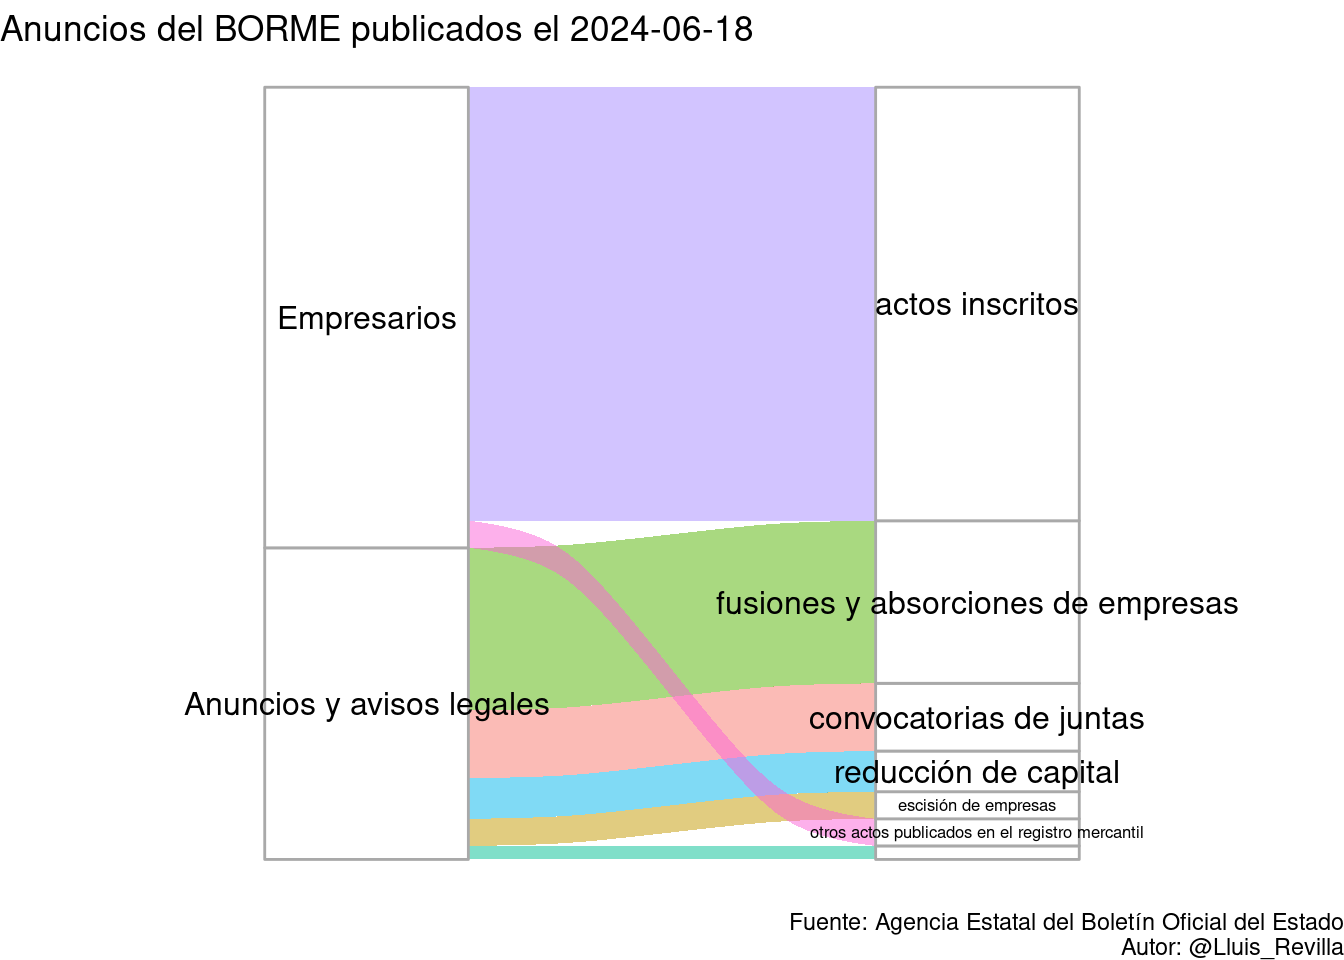
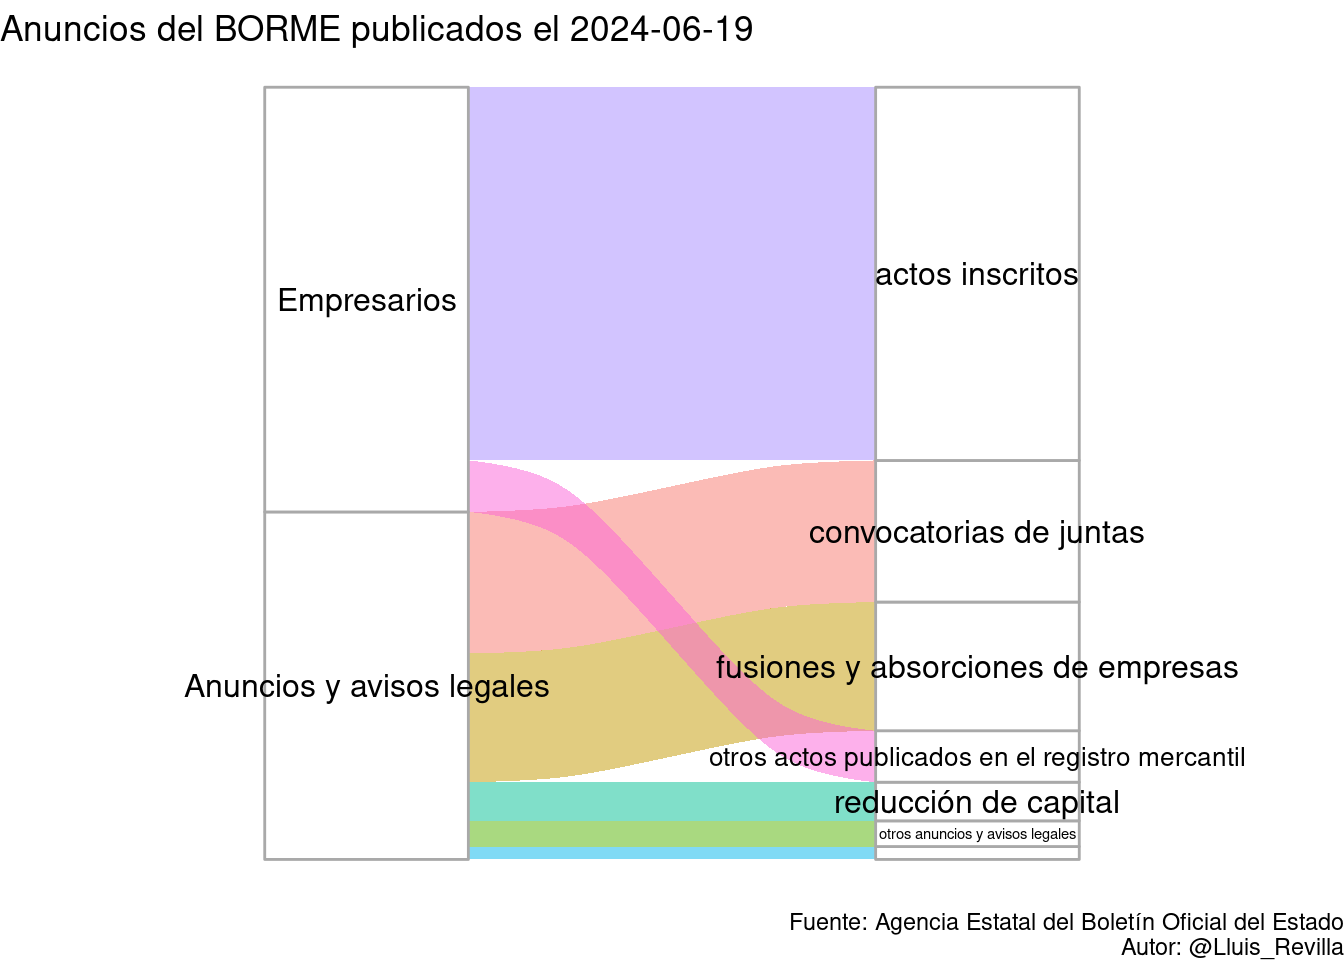
Update BORME

Changed region(s): [[0.125, 0.4688, 0.9375, 0.9062], [0.6562, 0.2812, 0.8125, 0.3438], [0.1875, 0.2812, 0.3438, 0.3438]]

diff --git a/docs/last_BORME.html b/docs/last_BORME.html
@@ -379,14 +379,14 @@ $(document).ready(function () {
 
 <div id="resumen-gráfico" class="section level1">
 <h1>Resumen gráfico</h1>
-<p>Esta página web contiene el último sumario del BORME publicado el 2024-06-18 con 57 publicaciones.</p>
+<p>Esta página web contiene el último sumario del BORME publicado el 2024-06-19 con 60 publicaciones.</p>
 <p><img src="last_BORME_files/figure-html/graphics-1.png" width="672" /></p>
 </div>
 <div id="tabla-de-publicaciones" class="section level1">
 <h1>Tabla de publicaciones</h1>
 <p>Aquí está la tabla completa con enlaces a las publicaciones:</p>
-<div class="datatables html-widget html-fill-item-overflow-hidden html-fill-item" id="htmlwidget-f313b6f8ead179875853" style="width:100%;height:auto;"></div>
-<script type="application/json" data-for="htmlwidget-f313b6f8ead179875853">{"x":{"filter":"top","vertical":false,"filterHTML":"<tr>\n  <td><\/td>\n  <td data-type=\"character\" style=\"vertical-align: top;\">\n    <div class=\"form-group has-feedback\" style=\"margin-bottom: auto;\">\n      <input type=\"search\" placeholder=\"All\" class=\"form-control\" style=\"width: 100%;\"/>\n      <span class=\"glyphicon glyphicon-remove-circle form-control-feedback\"><\/span>\n    <\/div>\n  <\/td>\n  <td data-type=\"character\" style=\"vertical-align: top;\">\n    <div class=\"form-group has-feedback\" style=\"margin-bottom: auto;\">\n      <input type=\"search\" placeholder=\"All\" class=\"form-control\" style=\"width: 100%;\"/>\n      <span class=\"glyphicon glyphicon-remove-circle form-control-feedback\"><\/span>\n    <\/div>\n  <\/td>\n  <td data-type=\"character\" style=\"vertical-align: top;\">\n    <div class=\"form-group has-feedback\" style=\"margin-bottom: auto;\">\n      <input type=\"search\" placeholder=\"All\" class=\"form-control\" style=\"width: 100%;\" disabled=\"\"/>\n      <span class=\"glyphicon glyphicon-remove-circle form-control-feedback\"><\/span>\n    <\/div>\n  <\/td>\n  <td data-type=\"character\" style=\"vertical-align: top;\">\n    <div class=\"form-group has-feedback\" style=\"margin-bottom: auto;\">\n      <input type=\"search\" placeholder=\"All\" class=\"form-control\" style=\"width: 100%;\"/>\n      <span class=\"glyphicon glyphicon-remove-circle form-control-feedback\"><\/span>\n    <\/div>\n  <\/td>\n<\/tr>","data":[["1","2","3","4","5","6","7","8","9","10","11","12","13","14","15","16","17","18","19","20","21","22","23","24","25","26","27","28","29","30","31","32","33","34","35","36","37","38","39","40","41","42","43","44","45","46","47","48","49","50","51","52","53","54","55","56","57"],["SECCIÓN PRIMERA. Empresarios","SECCIÓN PRIMERA. Empresarios","SECCIÓN PRIMERA. Empresarios","SECCIÓN PRIMERA. Empresarios","SECCIÓN PRIMERA. Empresarios","SECCIÓN PRIMERA. Empresarios","SECCIÓN PRIMERA. Empresarios","SECCIÓN PRIMERA. Empresarios","SECCIÓN PRIMERA. Empresarios","SECCIÓN PRIMERA. Empresarios","SECCIÓN PRIMERA. Empresarios","SECCIÓN PRIMERA. Empresarios","SECCIÓN PRIMERA. Empresarios","SECCIÓN PRIMERA. Empresarios","SECCIÓN PRIMERA. Empresarios","SECCIÓN PRIMERA. Empresarios","SECCIÓN PRIMERA. Empresarios","SECCIÓN PRIMERA. Empresarios","SECCIÓN PRIMERA. Empresarios","SECCIÓN PRIMERA. Empresarios","SECCIÓN PRIMERA. Empresarios","SECCIÓN PRIMERA. Empresarios","SECCIÓN PRIMERA. Empresarios","SECCIÓN PRIMERA. Empresarios","SECCIÓN PRIMERA. Empresarios","SECCIÓN PRIMERA. Empresarios","SECCIÓN PRIMERA. Empresarios","SECCIÓN PRIMERA. Empresarios","SECCIÓN PRIMERA. Empresarios","SECCIÓN PRIMERA. Empresarios","SECCIÓN PRIMERA. Empresarios","SECCIÓN PRIMERA. Empresarios","SECCIÓN PRIMERA. Empresarios","SECCIÓN PRIMERA. Empresarios","SECCIÓN SEGUNDA. Anuncios y avisos legales","SECCIÓN SEGUNDA. Anuncios y avisos legales","SECCIÓN SEGUNDA. Anuncios y avisos legales","SECCIÓN SEGUNDA. Anuncios y avisos legales","SECCIÓN SEGUNDA. Anuncios y avisos legales","SECCIÓN SEGUNDA. Anuncios y avisos legales","SECCIÓN SEGUNDA. Anuncios y avisos legales","SECCIÓN SEGUNDA. Anuncios y avisos legales","SECCIÓN SEGUNDA. Anuncios y avisos legales","SECCIÓN SEGUNDA. Anuncios y avisos legales","SECCIÓN SEGUNDA. Anuncios y avisos legales","SECCIÓN SEGUNDA. Anuncios y avisos legales","SECCIÓN SEGUNDA. Anuncios y avisos legales","SECCIÓN SEGUNDA. Anuncios y avisos legales","SECCIÓN SEGUNDA. Anuncios y avisos legales","SECCIÓN SEGUNDA. Anuncios y avisos legales","SECCIÓN SEGUNDA. Anuncios y avisos legales","SECCIÓN SEGUNDA. Anuncios y avisos legales","SECCIÓN SEGUNDA. Anuncios y avisos legales","SECCIÓN SEGUNDA. Anuncios y avisos legales","SECCIÓN SEGUNDA. Anuncios y avisos legales","SECCIÓN SEGUNDA. Anuncios y avisos legales","SECCIÓN SEGUNDA. Anuncios y avisos legales"],["Actos inscritos","Actos inscritos","Actos inscritos","Actos inscritos","Actos inscritos","Actos inscritos","Actos inscritos","Actos inscritos","Actos inscritos","Actos inscritos","Actos inscritos","Actos inscritos","Actos inscritos","Actos inscritos","Actos inscritos","Actos inscritos","Actos inscritos","Actos inscritos","Actos inscritos","Actos inscritos","Actos inscritos","Actos inscritos","Actos inscritos","Actos inscritos","Actos inscritos","Actos inscritos","Actos inscritos","Actos inscritos","Actos inscritos","Actos inscritos","Actos inscritos","Actos inscritos","Otros actos publicados en el Registro Mercantil","Otros actos publicados en el Registro Mercantil","CONVOCATORIAS DE JUNTAS","CONVOCATORIAS DE JUNTAS","CONVOCATORIAS DE JUNTAS","CONVOCATORIAS DE JUNTAS","CONVOCATORIAS DE JUNTAS","FUSIONES Y ABSORCIONES DE EMPRESAS","FUSIONES Y ABSORCIONES DE EMPRESAS","FUSIONES Y ABSORCIONES DE EMPRESAS","FUSIONES Y ABSORCIONES DE EMPRESAS","FUSIONES Y ABSORCIONES DE EMPRESAS","FUSIONES Y ABSORCIONES DE EMPRESAS","FUSIONES Y ABSORCIONES DE EMPRESAS","FUSIONES Y ABSORCIONES DE EMPRESAS","FUSIONES Y ABSORCIONES DE EMPRESAS","FUSIONES Y ABSORCIONES DE EMPRESAS","FUSIONES Y ABSORCIONES DE EMPRESAS","FUSIONES Y ABSORCIONES DE EMPRESAS","ESCISIÓN DE EMPRESAS","ESCISIÓN DE EMPRESAS","REDUCCIÓN DE CAPITAL","REDUCCIÓN DE CAPITAL","REDUCCIÓN DE CAPITAL","OTROS ANUNCIOS Y AVISOS LEGALES"],[null,null,null,null,null,null,null,null,null,null,null,null,null,null,null,null,null,null,null,null,null,null,null,null,null,null,null,null,null,null,null,null,null,null,null,null,null,null,null,null,null,null,null,null,null,null,null,null,null,null,null,null,null,null,null,null,null],["BORME-A-2024-116-02","BORME-A-2024-116-03","BORME-A-2024-116-04","BORME-A-2024-116-06","BORME-A-2024-116-07","BORME-A-2024-116-08","BORME-A-2024-116-09","BORME-A-2024-116-11","BORME-A-2024-116-12","BORME-A-2024-116-13","BORME-A-2024-116-14","BORME-A-2024-116-15","BORME-A-2024-116-16","BORME-A-2024-116-17","BORME-A-2024-116-18","BORME-A-2024-116-23","BORME-A-2024-116-25","BORME-A-2024-116-29","BORME-A-2024-116-30","BORME-A-2024-116-33","BORME-A-2024-116-35","BORME-A-2024-116-36","BORME-A-2024-116-38","BORME-A-2024-116-40","BORME-A-2024-116-41","BORME-A-2024-116-43","BORME-A-2024-116-45","BORME-A-2024-116-46","BORME-A-2024-116-47","BORME-A-2024-116-48","BORME-A-2024-116-50","BORME-A-2024-116-99","BORME-B-2024-116-08","BORME-B-2024-116-41","BORME-C-2024-3730","BORME-C-2024-3731","BORME-C-2024-3732","BORME-C-2024-3733","BORME-C-2024-3734","BORME-C-2024-3735","BORME-C-2024-3736","BORME-C-2024-3737","BORME-C-2024-3738","BORME-C-2024-3739","BORME-C-2024-3740","BORME-C-2024-3741","BORME-C-2024-3742","BORME-C-2024-3743","BORME-C-2024-3744","BORME-C-2024-3745","BORME-C-2024-3746","BORME-C-2024-3747","BORME-C-2024-3748","BORME-C-2024-3749","BORME-C-2024-3750","BORME-C-2024-3751","BORME-C-2024-3752"]],"container":"<table class=\"display\">\n  <thead>\n    <tr>\n      <th> <\/th>\n      <th>Sección<\/th>\n      <th>Emisor<\/th>\n      <th>Texto<\/th>\n      <th>Link<\/th>\n    <\/tr>\n  <\/thead>\n<\/table>","options":{"pageLength":10,"autoWidth":true,"columnDefs":[{"orderable":false,"targets":0},{"name":" ","targets":0},{"name":"Sección","targets":1},{"name":"Emisor","targets":2},{"name":"Texto","targets":3},{"name":"Link","targets":4}],"order":[],"orderClasses":false,"orderCellsTop":true}},"evals":[],"jsHooks":[]}</script>
+<div class="datatables html-widget html-fill-item-overflow-hidden html-fill-item" id="htmlwidget-c9d72ada3769f5dd6fbe" style="width:100%;height:auto;"></div>
+<script type="application/json" data-for="htmlwidget-c9d72ada3769f5dd6fbe">{"x":{"filter":"top","vertical":false,"filterHTML":"<tr>\n  <td><\/td>\n  <td data-type=\"character\" style=\"vertical-align: top;\">\n    <div class=\"form-group has-feedback\" style=\"margin-bottom: auto;\">\n      <input type=\"search\" placeholder=\"All\" class=\"form-control\" style=\"width: 100%;\"/>\n      <span class=\"glyphicon glyphicon-remove-circle form-control-feedback\"><\/span>\n    <\/div>\n  <\/td>\n  <td data-type=\"character\" style=\"vertical-align: top;\">\n    <div class=\"form-group has-feedback\" style=\"margin-bottom: auto;\">\n      <input type=\"search\" placeholder=\"All\" class=\"form-control\" style=\"width: 100%;\"/>\n      <span class=\"glyphicon glyphicon-remove-circle form-control-feedback\"><\/span>\n    <\/div>\n  <\/td>\n  <td data-type=\"character\" style=\"vertical-align: top;\">\n    <div class=\"form-group has-feedback\" style=\"margin-bottom: auto;\">\n      <input type=\"search\" placeholder=\"All\" class=\"form-control\" style=\"width: 100%;\" disabled=\"\"/>\n      <span class=\"glyphicon glyphicon-remove-circle form-control-feedback\"><\/span>\n    <\/div>\n  <\/td>\n  <td data-type=\"character\" style=\"vertical-align: top;\">\n    <div class=\"form-group has-feedback\" style=\"margin-bottom: auto;\">\n      <input type=\"search\" placeholder=\"All\" class=\"form-control\" style=\"width: 100%;\"/>\n      <span class=\"glyphicon glyphicon-remove-circle form-control-feedback\"><\/span>\n    <\/div>\n  <\/td>\n<\/tr>","data":[["1","2","3","4","5","6","7","8","9","10","11","12","13","14","15","16","17","18","19","20","21","22","23","24","25","26","27","28","29","30","31","32","33","34","35","36","37","38","39","40","41","42","43","44","45","46","47","48","49","50","51","52","53","54","55","56","57","58","59","60"],["SECCIÓN PRIMERA. Empresarios","SECCIÓN PRIMERA. Empresarios","SECCIÓN PRIMERA. Empresarios","SECCIÓN PRIMERA. Empresarios","SECCIÓN PRIMERA. Empresarios","SECCIÓN PRIMERA. Empresarios","SECCIÓN PRIMERA. Empresarios","SECCIÓN PRIMERA. Empresarios","SECCIÓN PRIMERA. Empresarios","SECCIÓN PRIMERA. Empresarios","SECCIÓN PRIMERA. Empresarios","SECCIÓN PRIMERA. Empresarios","SECCIÓN PRIMERA. Empresarios","SECCIÓN PRIMERA. Empresarios","SECCIÓN PRIMERA. Empresarios","SECCIÓN PRIMERA. Empresarios","SECCIÓN PRIMERA. Empresarios","SECCIÓN PRIMERA. Empresarios","SECCIÓN PRIMERA. Empresarios","SECCIÓN PRIMERA. Empresarios","SECCIÓN PRIMERA. Empresarios","SECCIÓN PRIMERA. Empresarios","SECCIÓN PRIMERA. Empresarios","SECCIÓN PRIMERA. Empresarios","SECCIÓN PRIMERA. Empresarios","SECCIÓN PRIMERA. Empresarios","SECCIÓN PRIMERA. Empresarios","SECCIÓN PRIMERA. Empresarios","SECCIÓN PRIMERA. Empresarios","SECCIÓN PRIMERA. Empresarios","SECCIÓN PRIMERA. Empresarios","SECCIÓN PRIMERA. Empresarios","SECCIÓN PRIMERA. Empresarios","SECCIÓN SEGUNDA. Anuncios y avisos legales","SECCIÓN SEGUNDA. Anuncios y avisos legales","SECCIÓN SEGUNDA. Anuncios y avisos legales","SECCIÓN SEGUNDA. Anuncios y avisos legales","SECCIÓN SEGUNDA. Anuncios y avisos legales","SECCIÓN SEGUNDA. Anuncios y avisos legales","SECCIÓN SEGUNDA. Anuncios y avisos legales","SECCIÓN SEGUNDA. Anuncios y avisos legales","SECCIÓN SEGUNDA. Anuncios y avisos legales","SECCIÓN SEGUNDA. Anuncios y avisos legales","SECCIÓN SEGUNDA. Anuncios y avisos legales","SECCIÓN SEGUNDA. Anuncios y avisos legales","SECCIÓN SEGUNDA. Anuncios y avisos legales","SECCIÓN SEGUNDA. Anuncios y avisos legales","SECCIÓN SEGUNDA. Anuncios y avisos legales","SECCIÓN SEGUNDA. Anuncios y avisos legales","SECCIÓN SEGUNDA. Anuncios y avisos legales","SECCIÓN SEGUNDA. Anuncios y avisos legales","SECCIÓN SEGUNDA. Anuncios y avisos legales","SECCIÓN SEGUNDA. Anuncios y avisos legales","SECCIÓN SEGUNDA. Anuncios y avisos legales","SECCIÓN SEGUNDA. Anuncios y avisos legales","SECCIÓN SEGUNDA. Anuncios y avisos legales","SECCIÓN SEGUNDA. Anuncios y avisos legales","SECCIÓN SEGUNDA. Anuncios y avisos legales","SECCIÓN SEGUNDA. Anuncios y avisos legales","SECCIÓN SEGUNDA. Anuncios y avisos legales"],["Actos inscritos","Actos inscritos","Actos inscritos","Actos inscritos","Actos inscritos","Actos inscritos","Actos inscritos","Actos inscritos","Actos inscritos","Actos inscritos","Actos inscritos","Actos inscritos","Actos inscritos","Actos inscritos","Actos inscritos","Actos inscritos","Actos inscritos","Actos inscritos","Actos inscritos","Actos inscritos","Actos inscritos","Actos inscritos","Actos inscritos","Actos inscritos","Actos inscritos","Actos inscritos","Actos inscritos","Actos inscritos","Actos inscritos","Otros actos publicados en el Registro Mercantil","Otros actos publicados en el Registro Mercantil","Otros actos publicados en el Registro Mercantil","Otros actos publicados en el Registro Mercantil","CONVOCATORIAS DE JUNTAS","CONVOCATORIAS DE JUNTAS","CONVOCATORIAS DE JUNTAS","CONVOCATORIAS DE JUNTAS","CONVOCATORIAS DE JUNTAS","CONVOCATORIAS DE JUNTAS","CONVOCATORIAS DE JUNTAS","CONVOCATORIAS DE JUNTAS","CONVOCATORIAS DE JUNTAS","CONVOCATORIAS DE JUNTAS","CONVOCATORIAS DE JUNTAS","FUSIONES Y ABSORCIONES DE EMPRESAS","FUSIONES Y ABSORCIONES DE EMPRESAS","FUSIONES Y ABSORCIONES DE EMPRESAS","FUSIONES Y ABSORCIONES DE EMPRESAS","FUSIONES Y ABSORCIONES DE EMPRESAS","FUSIONES Y ABSORCIONES DE EMPRESAS","FUSIONES Y ABSORCIONES DE EMPRESAS","FUSIONES Y ABSORCIONES DE EMPRESAS","FUSIONES Y ABSORCIONES DE EMPRESAS","FUSIONES Y ABSORCIONES DE EMPRESAS","TRANSFORMACIÓN DE EMPRESAS","REDUCCIÓN DE CAPITAL","REDUCCIÓN DE CAPITAL","REDUCCIÓN DE CAPITAL","OTROS ANUNCIOS Y AVISOS LEGALES","OTROS ANUNCIOS Y AVISOS LEGALES"],[null,null,null,null,null,null,null,null,null,null,null,null,null,null,null,null,null,null,null,null,null,null,null,null,null,null,null,null,null,null,null,null,null,null,null,null,null,null,null,null,null,null,null,null,null,null,null,null,null,null,null,null,null,null,null,null,null,null,null,null],["BORME-A-2024-117-02","BORME-A-2024-117-03","BORME-A-2024-117-04","BORME-A-2024-117-06","BORME-A-2024-117-08","BORME-A-2024-117-11","BORME-A-2024-117-15","BORME-A-2024-117-17","BORME-A-2024-117-18","BORME-A-2024-117-23","BORME-A-2024-117-24","BORME-A-2024-117-25","BORME-A-2024-117-28","BORME-A-2024-117-29","BORME-A-2024-117-30","BORME-A-2024-117-31","BORME-A-2024-117-33","BORME-A-2024-117-35","BORME-A-2024-117-36","BORME-A-2024-117-38","BORME-A-2024-117-41","BORME-A-2024-117-43","BORME-A-2024-117-45","BORME-A-2024-117-46","BORME-A-2024-117-47","BORME-A-2024-117-49","BORME-A-2024-117-50","BORME-A-2024-117-51","BORME-A-2024-117-99","BORME-B-2024-117-20","BORME-B-2024-117-28","BORME-B-2024-117-33","BORME-B-2024-117-35","BORME-C-2024-3753","BORME-C-2024-3754","BORME-C-2024-3755","BORME-C-2024-3756","BORME-C-2024-3757","BORME-C-2024-3758","BORME-C-2024-3759","BORME-C-2024-3760","BORME-C-2024-3761","BORME-C-2024-3762","BORME-C-2024-3763","BORME-C-2024-3764","BORME-C-2024-3765","BORME-C-2024-3766","BORME-C-2024-3767","BORME-C-2024-3768","BORME-C-2024-3769","BORME-C-2024-3770","BORME-C-2024-3771","BORME-C-2024-3772","BORME-C-2024-3773","BORME-C-2024-3774","BORME-C-2024-3775","BORME-C-2024-3776","BORME-C-2024-3777","BORME-C-2024-3778","BORME-C-2024-3779"]],"container":"<table class=\"display\">\n  <thead>\n    <tr>\n      <th> <\/th>\n      <th>Sección<\/th>\n      <th>Emisor<\/th>\n      <th>Texto<\/th>\n      <th>Link<\/th>\n    <\/tr>\n  <\/thead>\n<\/table>","options":{"pageLength":10,"autoWidth":true,"columnDefs":[{"orderable":false,"targets":0},{"name":" ","targets":0},{"name":"Sección","targets":1},{"name":"Emisor","targets":2},{"name":"Texto","targets":3},{"name":"Link","targets":4}],"order":[],"orderClasses":false,"orderCellsTop":true}},"evals":[],"jsHooks":[]}</script>
 </div>
 
 
